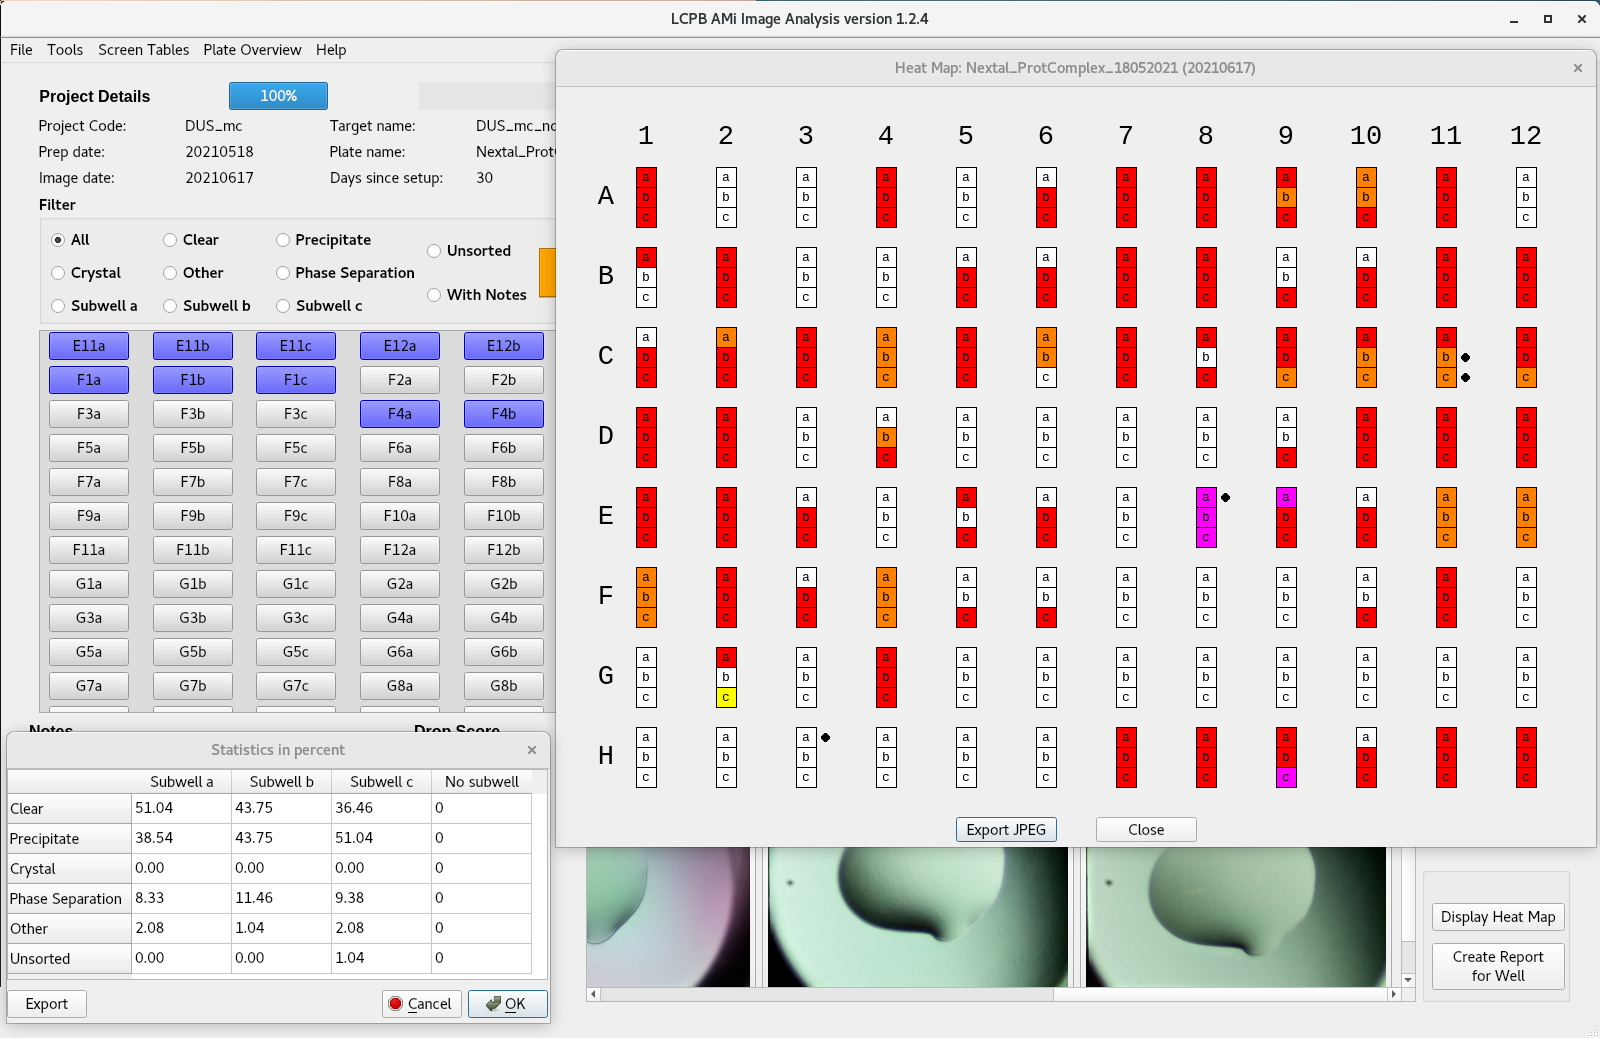
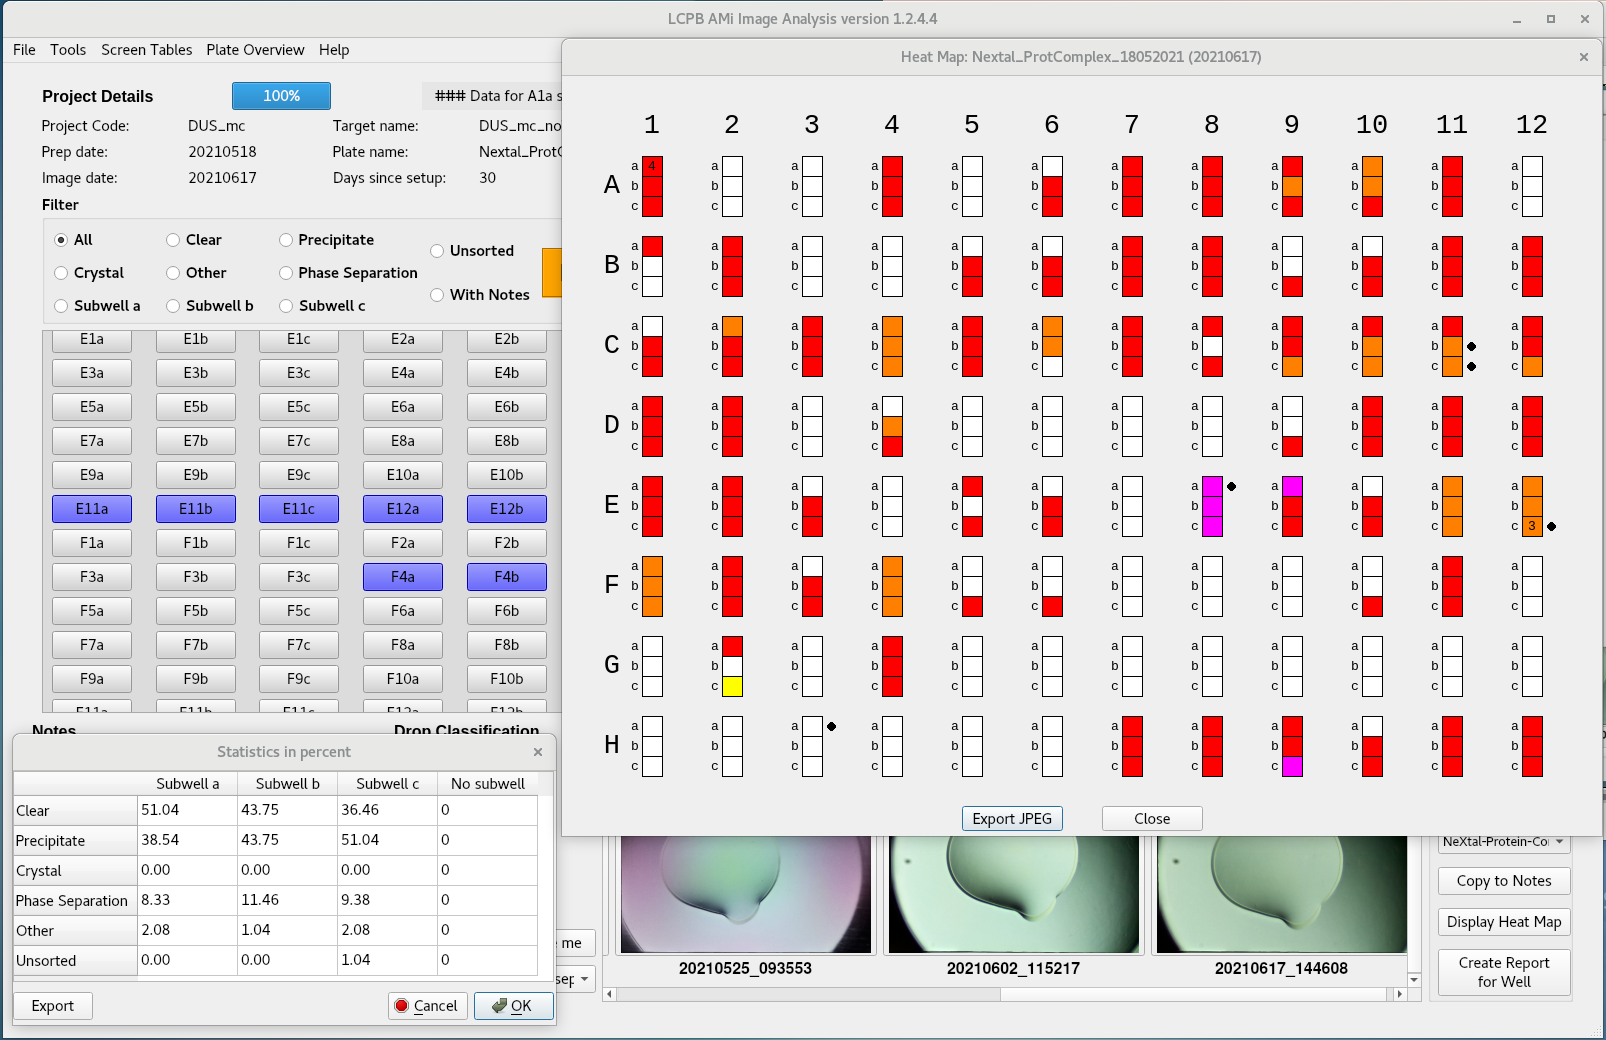
Updating project, Setup.py, GUI, Changelog...

diff --git a/Setup.py b/Setup.py
@@ -6,7 +6,7 @@ Created on Tue Jun 30 10:50:12 2020
 @author: ludovic
 """
 
-__date__ = "24-06-2022"
+__date__ = "04-08-2022"
 
 import os
 import os.path
@@ -20,7 +20,7 @@ import venv
 
 #Minimal python version compatible with https://bootstrap.pypa.io/get-pip.py
 this_python = sys.version_info[:2]
-min_version = (3, 7)    #Need to be checked in file
+min_version = (3, 6)    #Need to be checked in file
                         #https://bootstrap.pypa.io/get-pip.py
                         #if error "python: No module named pip"
 
@@ -92,29 +92,7 @@ class ExtendedEnvBuilder(venv.EnvBuilder):
                 sys.stderr.flush()
         stream.close()
 
-    def install_script(self, context, name, url):
-        _, _, path, _, _, _ = urllib.parse.urlparse(url)
-        fn = os.path.split(path)[-1]
-        binpath = context.bin_path
-        distpath = os.path.join(binpath, fn)
-        
-        # Download script into the virtual environment's binaries folder
-        urllib.request.urlretrieve(url, distpath)
-        with open(distpath) as f:
-            _lines=f.readlines()
-        for i in _lines:
-            if "min_version" in i:
-                min_version = i.split('=')[1]
-                min_version = tuple(int(ele) for ele in min_version.replace('(', '').replace(')', '').split(', '))
-                break
-        print(f"Python min_version= {min_version} for compatibility" )
-        if this_python < min_version:
-            print(f'''Python {this_python} too old
-                  you may need to edit
-                  min_version = (X, X) at the beginning of the Setup.py script.
-                  Install Aborted
-                  ''')
-            sys.exit()
+    def install_script(self, context, name, fn, binpath, distpath):
         progress = self.progress
         if self.verbose:
             term = '\n'
@@ -142,6 +120,45 @@ class ExtendedEnvBuilder(venv.EnvBuilder):
         # Clean up - no longer needed
         os.unlink(distpath)
 
+    @staticmethod
+    def url_pip():
+        global this_python,min_version
+        ''' return location of downloaded file'''
+        if this_python < min_version:
+            url = 'https://bootstrap.pypa.io/pip/{}.{}/get-pip.py'.format(*this_python)
+        else:
+            url = 'https://bootstrap.pypa.io/get-pip.py'
+        return url
+    
+    def download_pip(self,context,url, path):
+        ''''Download script into the virtual environment's binaries folder'''
+        urllib.request.urlretrieve(url, path)
+
+    @staticmethod
+    def get_pip_compat(path):
+        '''read pip script and return a tuple of min_version'''
+        with open(path) as f:
+            _lines=f.readlines()
+        for i in _lines:
+            if "min_version" in i:
+                comp = i.split('=')[1]
+                comp = tuple(int(ele) for ele in comp.replace('(', '').replace(')', '').split(', '))
+                break
+        print(f"Python min_version= {comp} for compatibility in {path}" )
+        return comp
+
+    @staticmethod
+    def check_getpip_compat(compatibility):
+        global this_python
+        if this_python < compatibility:
+            print(f'''Python {this_python} too old for this version
+                  of get-pip.py
+                  min_version = {str(compatibility)}
+                  ''')
+        else:
+            print("Everything seems in order, continuing installation...")
+        return bool(this_python < compatibility)
+
     def install_pip(self, context):
         global this_python,min_version
         """
@@ -150,13 +167,31 @@ class ExtendedEnvBuilder(venv.EnvBuilder):
         :param context: The information for the virtual environment
                         creation request being processed.
         """
-        if this_python < min_version:
-            url = 'https://bootstrap.pypa.io/pip/{}.{}/get-pip.py'.format(*this_python)
+            
+        url=self.url_pip()
+        _, _, path, _, _, _ = urllib.parse.urlparse(url)
+        fn = os.path.split(path)[-1]
+        binpath = context.bin_path
+        distpath = os.path.join(binpath, fn)
+        
+        self.download_pip(context,url, distpath)
+        compat=self.get_pip_compat(distpath)
+        if self.check_getpip_compat(compat) is True:
+            os.unlink(distpath)
+            min_version=compat
+            print("Trying to update the installation script...")
+            url=self.url_pip()
+            _, _, path, _, _, _ = urllib.parse.urlparse(url)
+            fn = os.path.split(path)[-1]
+            binpath = context.bin_path
+            distpath = os.path.join(binpath, fn)            
+            self.download_pip(context,url, distpath)
+            compat=self.get_pip_compat(distpath)
+            self.check_getpip_compat(compat)
+            self.install_script(context, 'pip', fn, binpath, distpath)
         else:
-            url = 'https://bootstrap.pypa.io/get-pip.py'
-        # url = 'https://bootstrap.pypa.io/get-pip.py'
-        self.install_script(context, 'pip', url)
-
+            self.install_script(context, 'pip', fn, binpath, distpath)
+            
     def install_dep(self, context):
         try:
             import subprocess
@@ -315,12 +350,11 @@ if __name__ == '__main__':
               
 #########################################################################################################            
               ''')
-    #Ask to STOP installation if python >= 3.8 (need <= 3.7.x for MARCO TF model)
-    val1=input("Do you want to proceed ? (Y(es) or N(o)) :")
-    if val1.lower() not in ['y', 'yes']:
-        print("Aborting \n")
-        sys.exit(RC)
-        
+        #Ask to STOP installation if python >= 3.8 (need <= 3.7.x for MARCO TF model)
+        val1=input("Do you want to proceed ? (Y(es) or N(o)) :")
+        if val1.lower() not in ['y', 'yes']:
+            print("Aborting \n")
+            sys.exit(RC)        
     try:
         main()
         RC = 0

diff --git a/gui.py b/gui.py
@@ -210,7 +210,7 @@ class Ui_MainWindow(object):
         self.horizontalLayout_2.addWidget(self.labelVisuClassif, 0, QtCore.Qt.AlignHCenter|QtCore.Qt.AlignVCenter)
         self.gridLayout.addWidget(self.FilterBox, 2, 0, 1, 1)
         self.gridLayoutWidget_2 = QtWidgets.QWidget(self.verticalFrame)
-        self.gridLayoutWidget_2.setGeometry(QtCore.QRect(20, 650, 1549, 280))
+        self.gridLayoutWidget_2.setGeometry(QtCore.QRect(20, 650, 1541, 280))
         self.gridLayoutWidget_2.setObjectName("gridLayoutWidget_2")
         self.gridLayout_2 = QtWidgets.QGridLayout(self.gridLayoutWidget_2)
         self.gridLayout_2.setContentsMargins(0, 0, 0, 0)
@@ -285,7 +285,7 @@ class Ui_MainWindow(object):
         sizePolicy.setVerticalStretch(0)
         sizePolicy.setHeightForWidth(self.groupBox.sizePolicy().hasHeightForWidth())
         self.groupBox.setSizePolicy(sizePolicy)
-        self.groupBox.setMinimumSize(QtCore.QSize(150, 190))
+        self.groupBox.setMinimumSize(QtCore.QSize(145, 190))
         self.groupBox.setMaximumSize(QtCore.QSize(16777215, 16777215))
         self.groupBox.setBaseSize(QtCore.QSize(150, 0))
         self.groupBox.setTitle("")
@@ -400,13 +400,18 @@ class Ui_MainWindow(object):
         self.Scoring_Layout.addWidget(self.radioButton_ScoreClear, 0, 0, 1, 1)
         self.label_Score = QtWidgets.QLabel(self.gridLayoutWidget_2)
         font = QtGui.QFont()
-        font.setFamily("Courier 10 Pitch")
+        font.setFamily("Cantarell")
         font.setPointSize(12)
         self.label_Score.setFont(font)
         self.label_Score.setAlignment(QtCore.Qt.AlignRight|QtCore.Qt.AlignTrailing|QtCore.Qt.AlignVCenter)
         self.label_Score.setObjectName("label_Score")
         self.Scoring_Layout.addWidget(self.label_Score, 6, 0, 1, 1)
         self.comboBoxScore = QtWidgets.QComboBox(self.gridLayoutWidget_2)
+        sizePolicy = QtWidgets.QSizePolicy(QtWidgets.QSizePolicy.Ignored, QtWidgets.QSizePolicy.Fixed)
+        sizePolicy.setHorizontalStretch(0)
+        sizePolicy.setVerticalStretch(0)
+        sizePolicy.setHeightForWidth(self.comboBoxScore.sizePolicy().hasHeightForWidth())
+        self.comboBoxScore.setSizePolicy(sizePolicy)
         self.comboBoxScore.setObjectName("comboBoxScore")
         self.Scoring_Layout.addWidget(self.comboBoxScore, 6, 1, 1, 1)
         self.gridLayout_2.addLayout(self.Scoring_Layout, 1, 1, 1, 1)

diff --git a/preferences.py b/preferences.py
@@ -5,8 +5,8 @@ Created on Mon Jan  6 09:05:49 2020
 
 @author: ludovic
 
-You can edit this file if you want to modify the shortcuts
-or change the circle detection parameters.
+You can edit this file if you want to modify the shortcuts,
+change the circle detection parameters, change colors, scoreclass...
 
 Check_Circle_detection.py, autocrop.py and main program use
 the values stored in this file.
@@ -16,7 +16,9 @@ from PyQt5 import QtCore
 
 #Comment/uncomment the two lines below according to your need
 keyboard_layout="qwerty"
-#keyboard_layout="azerty"
+# keyboard_layout="azerty"
+
+USESCORECLASS = True # True or False
 
 MAX_CPU=None #set to desired integer if needed ie MAX_CPU="8" (keep the "")
 
@@ -32,6 +34,18 @@ ClassificationColor={
 
 #autoMARCO acceptance probability criterium
 autoMARCO_threshold=0.60
+
+#Define score classes. Edit to your need but Order is IMPORTANT !!!
+scoreclass=['heavy prec',
+            'clear',
+            'phase sep',
+            'granular prec',
+            'crystalline prec',
+            'spherulites',
+            'micro-crystals',
+            'multiple crystals',
+            'small crystals',
+            '3D crystal']
 
 class Shortcut():
     '''Shortcuts for the GUI'''

diff --git a/AMi_Image_Analysis.py b/AMi_Image_Analysis.py
@@ -144,8 +144,13 @@ class ViewerModule(QtWidgets.QMainWindow, Ui_MainWindow):
         for _key,_value in self.DatabaseDict.items():
             self.comboBoxScreen.addItem(_key)
         self.comboBoxScore.addItem(None)
-        for _i in range(1,11):
-            self.comboBoxScore.addItem(str(_i))
+
+        if pref.USESCORECLASS is True:
+            for _i in range(1,len(pref.scoreclass)+1):
+                self.comboBoxScore.addItem(str(_i) + str(f' ({pref.scoreclass[_i-1]})'))
+        else:
+            for _i in range(1,11):
+                self.comboBoxScore.addItem(str(_i))
 
         self.initUI()
 
@@ -1198,7 +1203,8 @@ https://github.com/LP-CDF/AMi_Image_Analysis
         # print("Current Screen: ", self.currentScreen)
     
     def setScore(self, well):
-        self.scores[well]=self.comboBoxScore.currentText()
+        # self.scores[well]=self.comboBoxScore.currentText()
+        self.scores[well]=self.comboBoxScore.currentIndex()
         if self.comboBoxScore.currentText()=='':
             self.scores[well]=None
         # print(f"self.scores[{well}]: ", self.scores[well])

diff --git a/HeatMap_Grid.py b/HeatMap_Grid.py
@@ -139,7 +139,7 @@ class HeatMapGrid(QtWidgets.QDialog, Ui_Dialog):
                             QtCore.Qt.AlignCenter, '')
             else:
                 qp.drawText(x1, y1, dx, dy,
-                            QtCore.Qt.AlignCenter, self.score[well])
+                            QtCore.Qt.AlignCenter, str(self.score[well]))
 
 if __name__ == "__main__":
     import sys

diff --git a/README.md b/README.md
@@ -18,6 +18,7 @@ A timeline is available if the plate has already been imaged.
 Screen composition can be loaded from included screens or imported from files following the RockMaker XML format.
 
 Images are scored using the Drop Score section and more details can be written in notes and saved to file.
+In addition, a manual score can be assigned if needed.
 The results can be displayed on a grid for quick overall inspection and statistics are calculated.
 A report of the current well can be saved as a pdf.
 
@@ -52,9 +53,9 @@ or (default from 2021/03/05)
 		└── prep_date.txt
 ```
 The Tree format is defined during setup (see INSTALL notes).
-AMiGUI (the software controlling the AMi microscope) needs a folder named "images" but this is not important for AMi_Image_Analysis. 
+The folder "images" is used by the software controlling the AMi microscope (AMiGUI.py) but is not needed by AMi_Image_Analysis. 
 The date directory must have the format **YYYYMMDD_HHMMSS** (eg. 20191211_151023)
-The file "prep_date.txt" contains the preparation date as a single line with format **YYYYMMDD** and is created within the program. It is used for logging purpose only and is not mandatory.
+The file "prep_date.txt" is created within the program and contains the preparation date as a single line with format **YYYYMMDD**.
 
 
 ## Screenshots
@@ -84,7 +85,6 @@ Then follow the instructions in INSTALL.txt
 
 Dependencies:
 * Python 3 (python below 3.8 if you want to use TensorFlow 1.1x)
-* Qt5
 * PyQt5
 * Python Imaging Library (Pillow, v6.2.1 or higher)
 * PyFPDF (v1.7.2 or higher)
@@ -96,8 +96,6 @@ Optional dependencies:
 * MARCO tensorflow model (https://storage.googleapis.com/marco-168219-model/savedmodel.zip)
 A copy of this model is included in saved_model/
 Methodology details are published in [[2]](#2)
-
-Note: a pip requirement file is available for easy install of python dependencies.
 
 Known issues: 
 * On Raspbian AutoMARCO does not work with regular PyPi tensorflow package (see INSTALL.txt).
